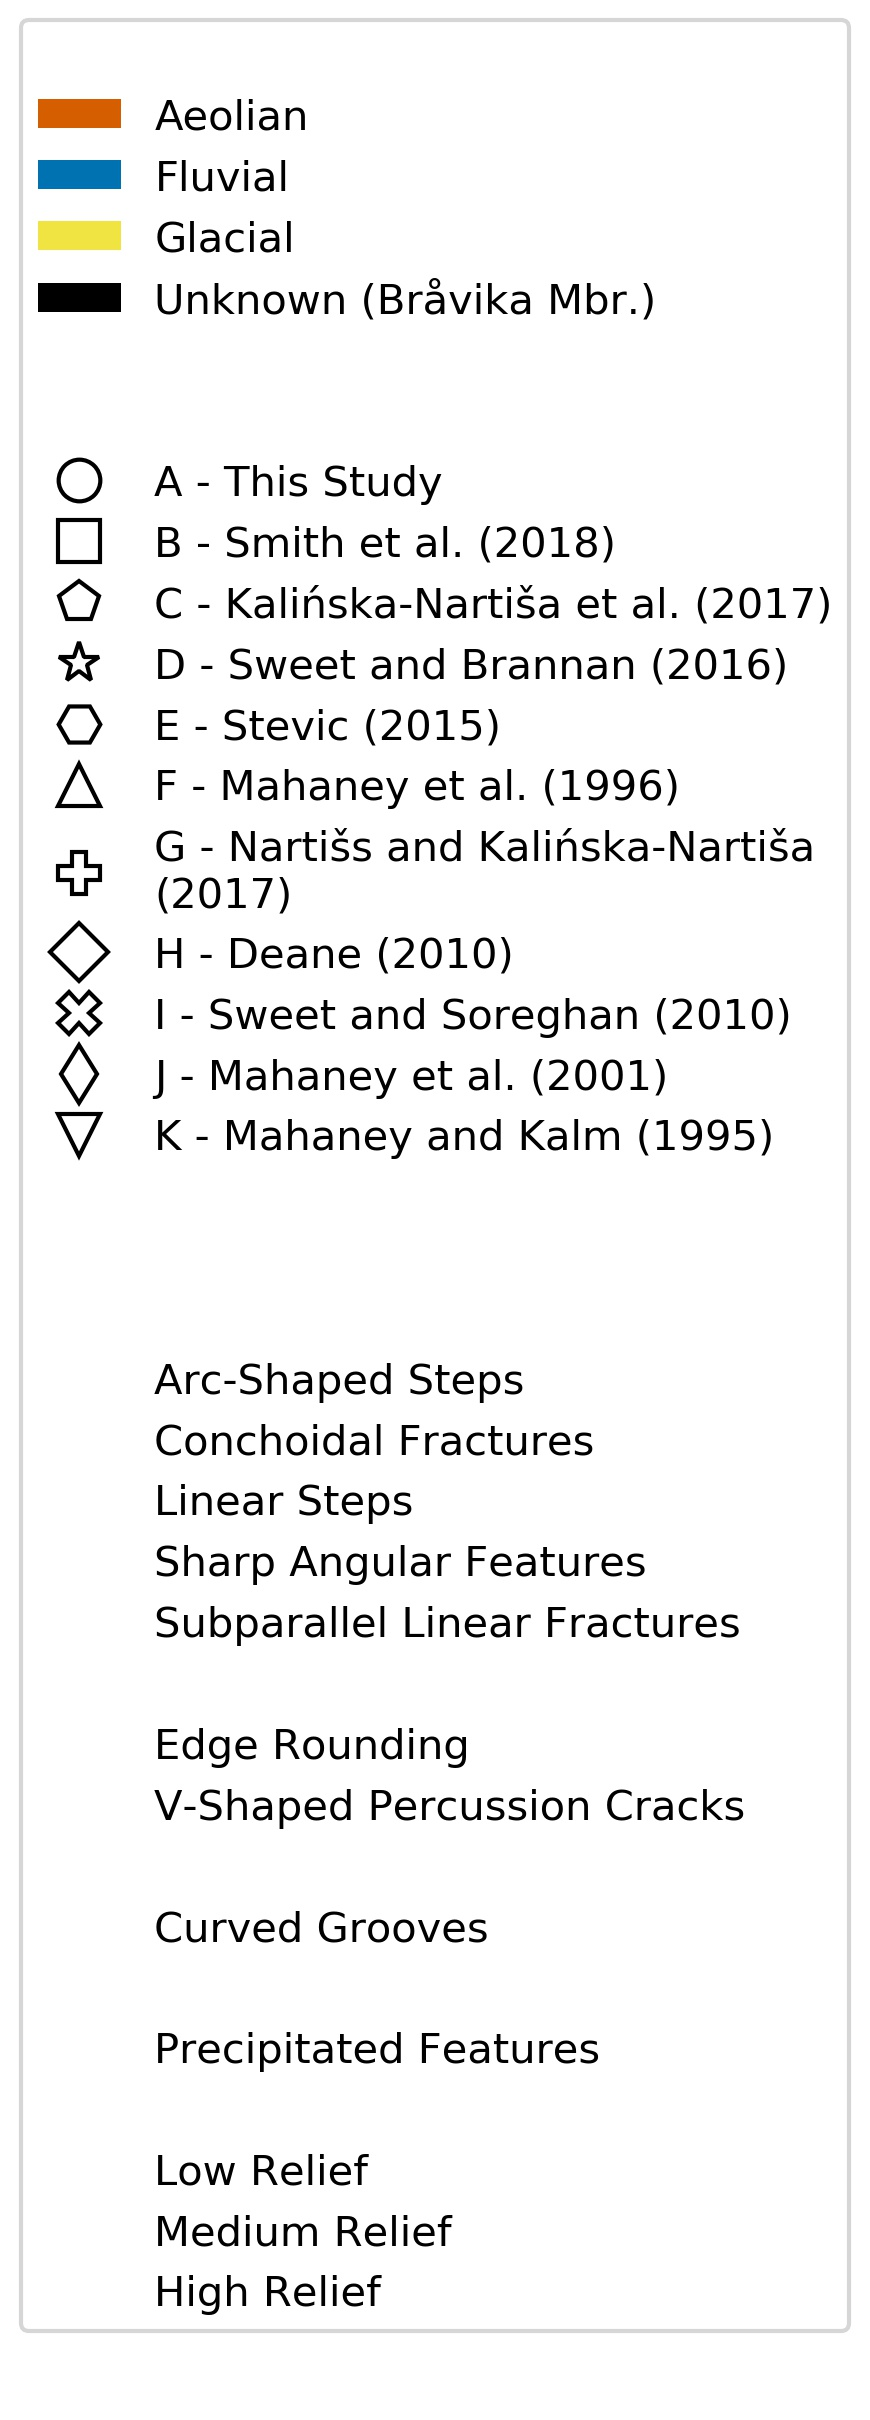
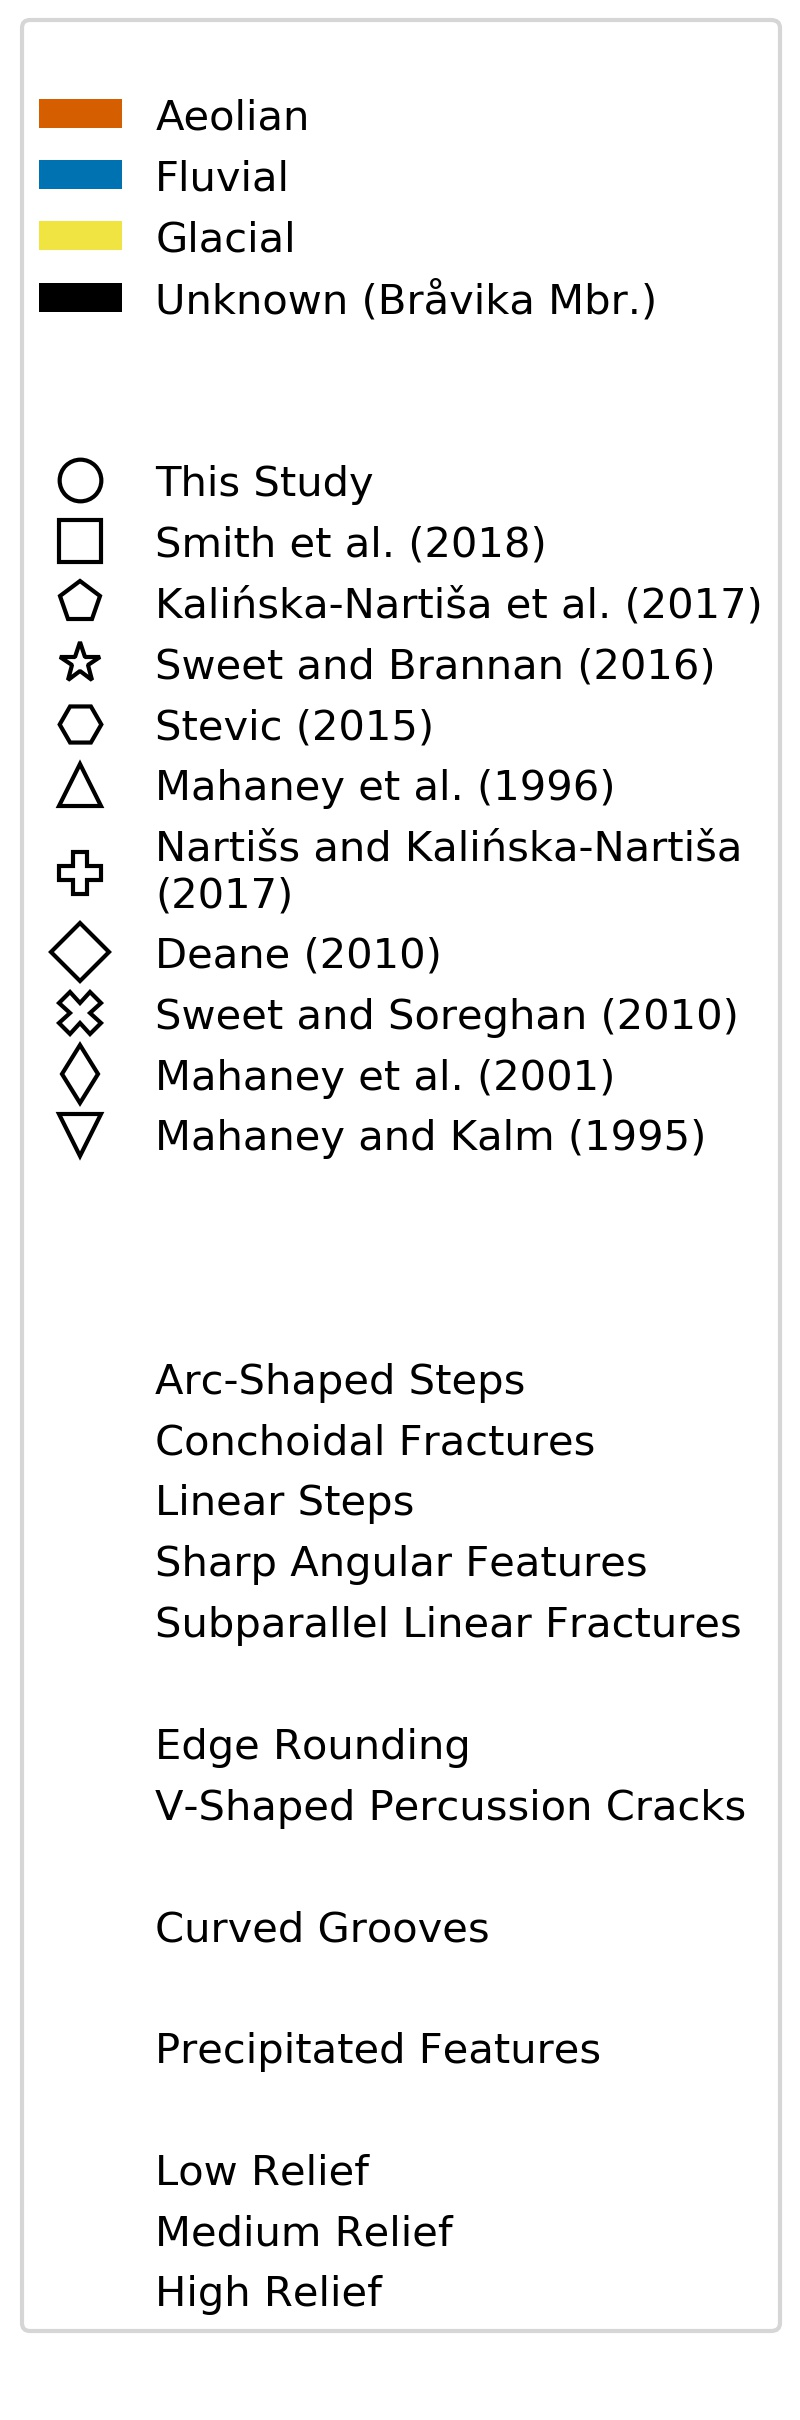
Small edits on existing plots and new boxplot

diff --git a/Code/ViolinPlots.py b/Code/ViolinPlots.py
@@ -1,0 +1,154 @@
+#!/usr/bin/env python3
+# -*- coding: utf-8 -*-
+"""
+Created on Wed Sep  2 15:34:15 2020
+
+@author: jocelynreahl
+"""
+
+import pandas as pd
+import matplotlib.pyplot as plt
+from matplotlib.patches import Rectangle
+import seaborn as sns
+from sklearn import preprocessing
+from sklearn.decomposition import PCA
+from scipy import stats
+import numpy as np
+
+sns.set(style='white')
+master2 = pd.read_csv('ALLDATA.csv')
+tex_allauthors = ['as', 'cf', 'cg', 'er', 'ls', 'pf', 'saf', 'slf', 'vc',
+                  'low', 'med', 'high']
+tex_mechanical = ['as', 'cf', 'cg', 'er', 'ls', 'saf', 'slf', 'vc', 'low',
+                  'med', 'high']
+modern = master2[master2['relage'] == 'Active']
+
+
+def run_PCA(dataset, tex):
+    data = dataset.loc[:, tex]
+    scaled_data = preprocessing.scale(data)
+    pca = PCA()
+    pca_ref = pca.fit_transform(scaled_data)
+    per_var = np.round(pca.explained_variance_ratio_*100,
+                                    decimals=2)
+    components = ['PC' + str(x) for x in range(1, len(per_var)+1)]
+    pca_df = pd.DataFrame(pca_ref, columns=components)
+    pca_df['transport'] = dataset['transport']
+    return pca_df
+
+
+def calc_boxplot(dataset, ordination, transport, PC):
+    d = dataset[dataset['transport'] == transport].loc[:, PC]
+    q25, q50, q75 = np.percentile(d, [25, 50, 75])
+    whiskerlim = 1.5 * stats.iqr(d)
+    h1 = np.min(d[d >= (q25 - whiskerlim)])
+    h2 = np.max(d[d <= (q75 + whiskerlim)])
+    return pd.Series([ordination, transport, PC, q25, q50, q75, h1, h2],
+                     index=['type', 'transport', 'PC', 'q25', 'q50', 'q75',
+                            'h1', 'h2'])
+
+
+transport = ['Aeolian', 'Fluvial', 'Glacial']
+allauthors = run_PCA(modern, tex_allauthors)
+mechanical = run_PCA(modern, tex_mechanical)
+data = [allauthors, mechanical]
+statistics = pd.DataFrame(columns=['type', 'transport', 'PC', 'q25', 'q50',
+                                   'q75', 'h1', 'h2'],
+                          index=np.arange(0, 18))
+
+for i in range(int(len(statistics)/3)):
+    for j in range(3):
+        if i*3+j < 9:
+            if i == 0:
+                statistics.loc[i*3+j, :] = calc_boxplot(allauthors,
+                                                        'alltextures',
+                                                        transport[j],'PC1')
+            elif i == 1:
+                statistics.loc[i*3+j, :] = calc_boxplot(allauthors,
+                                                        'alltextures',
+                                                        transport[j], 'PC2')
+            elif i == 2:
+                statistics.loc[i*3+j, :] = calc_boxplot(allauthors,
+                                                        'alltextures',
+                                                        transport[j], 'PC3')
+        elif i*3+j >= 9:
+            if i == 3:
+                statistics.loc[i*3+j, :] = calc_boxplot(mechanical,
+                                                        'mechanical',
+                                                        transport[j],'PC1')
+            elif i == 4:
+                statistics.loc[i*3+j, :] = calc_boxplot(mechanical,
+                                                        'mechanical',
+                                                        transport[j], 'PC2')
+            elif i == 5:
+                statistics.loc[i*3+j, :] = calc_boxplot(mechanical,
+                                                        'mechanical',
+                                                        transport[j], 'PC3')
+statistics.to_excel('STATISTICS.xlsx')
+
+fig, ax = plt.subplots(2, 3, figsize=(15, 10))
+for i in range(2):
+    for j in range(3):
+        ax[i, j].tick_params(axis='both', which='major', top=True,
+                             labeltop=False, right=True, labelright=False,
+                             left=True, bottom=True, labelsize=14)
+        if i == 0:
+            sns.boxplot(x='transport', y='PC' + str(j+1), order=transport,
+                        palette=['#D55E00', '#0072B2', '#F0E442'],
+                        data=allauthors, ax=ax[i, j], saturation=1)
+            ax[i, j].add_patch(Rectangle((-0.5, 6.5), 3, 1, clip_on=False,
+                                         fill=True, facecolor='#648FFF',
+                                         edgecolor='w'))
+            ax[i, j].text(1, 7, 'PC'+str(j+1), size=18, c='w',
+                          horizontalalignment='center',
+                          verticalalignment='center', weight='bold',
+                          rotation=0)
+            if j == 0:
+                ax[i, j].add_patch(Rectangle((-1.165, -5), 0.33, 11, 
+                                         clip_on=False, fill=True,
+                                         facecolor='#648FFF', edgecolor='w'))
+                ax[i, j].text(-1, 1, 'All Textures', size=18, c='w',
+                              horizontalalignment='center',
+                              verticalalignment='center', weight='bold',
+                              rotation=90)
+                ax[i, j].text(-0.165, 5, 'A1', size=30,
+                              horizontalalignment='center',
+                              verticalalignment='center')
+            elif j == 1:
+                ax[i, j].text(-0.165, 5, 'A2', size=30,
+                              horizontalalignment='center',
+                              verticalalignment='center')
+            elif j == 2:
+                ax[i, j].text(-0.165, 5, 'A3', size=30,
+                              horizontalalignment='center',
+                              verticalalignment='center')
+        elif i == 1:
+            sns.boxplot(x='transport', y='PC' + str(j+1), order=transport,
+                        palette=['#D55E00', '#0072B2', '#F0E442'],
+                        data=mechanical, ax=ax[i, j], saturation=1)
+            if j == 0:
+                ax[i, j].add_patch(Rectangle((-1.165, -5), 0.33, 11, 
+                                         clip_on=False, fill=True,
+                                         facecolor='#648FFF', edgecolor='w'))
+                ax[i, j].text(-1, 1, 'Mechanical', size=18, c='w',
+                              horizontalalignment='center',
+                              verticalalignment='center', weight='bold',
+                              rotation=90)
+                ax[i, j].text(-0.165, 5, 'B1', size=30,
+                              horizontalalignment='center',
+                              verticalalignment='center')
+            elif j == 1:
+                ax[i, j].text(-0.165, 5, 'B2', size=30,
+                              horizontalalignment='center',
+                              verticalalignment='center')
+            elif j == 2:
+                ax[i, j].text(-0.165, 5, 'B3', size=30,
+                              horizontalalignment='center',
+                              verticalalignment='center')
+        ax[i, j].set_ylim(-5, 6)
+        ax[i, j].set_ylabel('')
+        ax[i, j].set_xlabel('')
+
+plt.tight_layout()
+plt.savefig('Figures/BOXPLOT.jpg', dpi=300)
+plt.show()

diff --git a/Code/PCA.py b/Code/PCA.py
@@ -41,37 +41,37 @@ legend_elements = [
                    Patch(facecolor='#ffffff', label=''),
                    Line2D([0], [0], marker='o', color='w',
                           markerfacecolor='w', markeredgecolor='k', ms=10,
-                          label='A - This Study'),
+                          label='This Study'),
                    Line2D([0], [0], marker='s', color='w',
                           markerfacecolor='w', markeredgecolor='k', ms=10,
-                          label='B - Smith et al. (2018)'),
+                          label='Smith et al. (2018)'),
                    Line2D([0], [0], marker='p', color='w',
                           markerfacecolor='w', markeredgecolor='k', ms=10,
-                          label='C - Kalińska-Nartiša et al. (2017)'),
+                          label='Kalińska-Nartiša et al. (2017)'),
                    Line2D([0], [0], marker='*', color='w',
                           markerfacecolor='w', markeredgecolor='k', ms=10,
-                          label='D - Sweet and Brannan (2016)'),
+                          label='Sweet and Brannan (2016)'),
                    Line2D([0], [0], marker='H', color='w',
                           markerfacecolor='w', markeredgecolor='k', ms=10,
-                          label='E - Stevic (2015)'),
+                          label='Stevic (2015)'),
                    Line2D([0], [0], marker='^', color='w',
                           markerfacecolor='w', markeredgecolor='k', ms=10,
-                          label='F - Mahaney et al. (1996)'),
+                          label='Mahaney et al. (1996)'),
                    Line2D([0], [0], marker='P', color='w',
                           markerfacecolor='w', markeredgecolor='k', ms=10,
-                          label='G - Nartišs and Kalińska-Nartiša\n(2017)'),
+                          label='Nartišs and Kalińska-Nartiša\n(2017)'),
                    Line2D([0], [0], marker='D', color='w',
                           markerfacecolor='w', markeredgecolor='k', ms=10,
-                          label='H - Deane (2010)'),
+                          label='Deane (2010)'),
                    Line2D([0], [0], marker='X', color='w',
                           markerfacecolor='w', markeredgecolor='k', ms=10,
-                          label='I - Sweet and Soreghan (2010)'),
+                          label='Sweet and Soreghan (2010)'),
                    Line2D([0], [0], marker='d', color='w',
                           markerfacecolor='w', markeredgecolor='k', ms=10,
-                          label='J - Mahaney et al. (2001)'),
+                          label='Mahaney et al. (2001)'),
                    Line2D([0], [0], marker='v', color='w',
                           markerfacecolor='w', markeredgecolor='k', ms=10,
-                          label='K - Mahaney and Kalm (1995)'),
+                          label='Mahaney and Kalm (1995)'),
                    Patch(facecolor='#ffffff', label=''),
                    Patch(facecolor='#ffffff', label=''),
                    Patch(facecolor='#ffffff', label=''),
@@ -86,10 +86,9 @@ legend_elements = [
                    Patch(facecolor='#ffffff',
                          label='V-Shaped Percussion Cracks'),
                    Patch(facecolor='#ffffff', label=''),
-                   # Patch(facecolor='#ffffff', label='Crescentic Gouges'),
                    Patch(facecolor='#ffffff', label='Curved Grooves'),
-                    Patch(facecolor='#ffffff', label=''),
-                    Patch(facecolor='#ffffff', label='Precipitated Features'),
+                    # Patch(facecolor='#ffffff', label=''),
+                    # Patch(facecolor='#ffffff', label='Precipitated Features'),
                    Patch(facecolor='#ffffff', label=''),
                    Patch(facecolor='#ffffff', label='Low Relief'),
                    Patch(facecolor='#ffffff', label='Medium Relief'),
